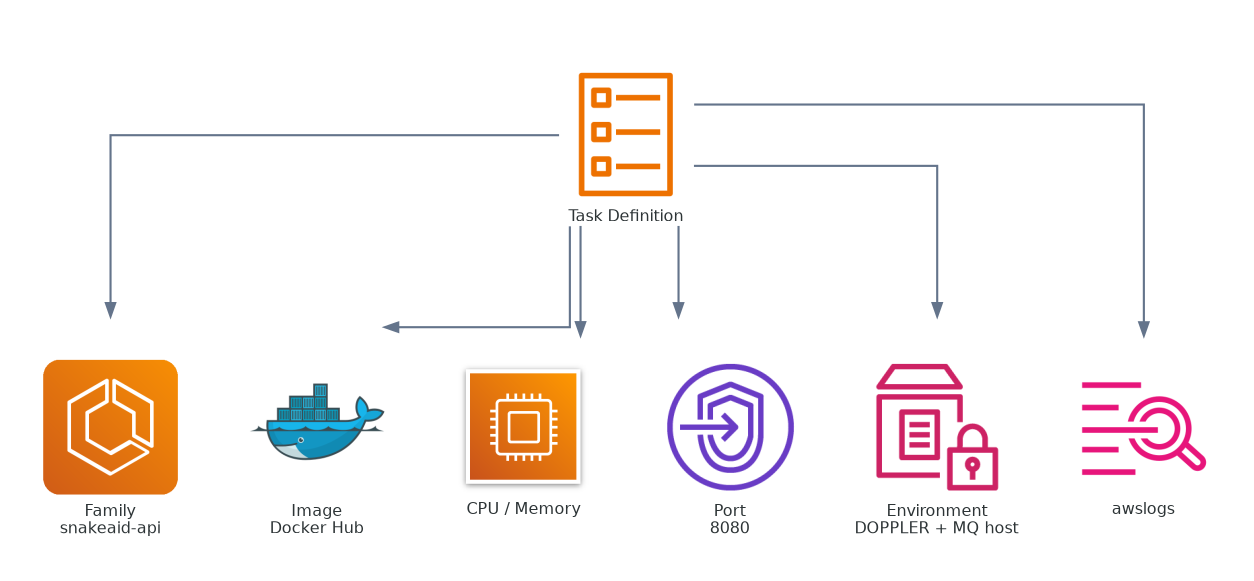
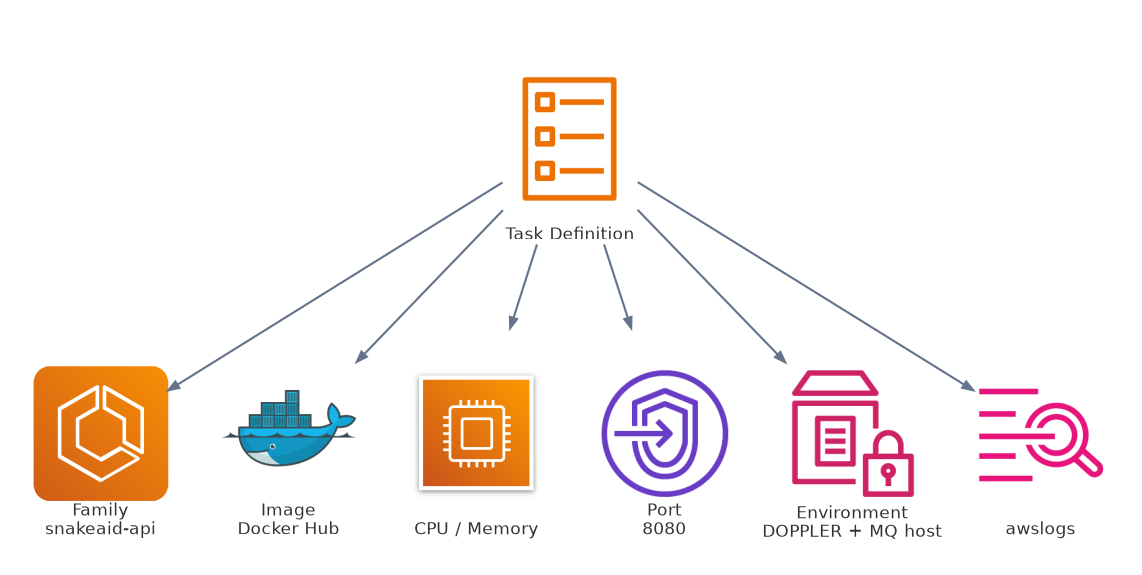
feat(docs): add diagrams for task definition anatomy, minimum fields, and docker-compose mental model

diff --git a/content/03-ecs-fargate-clickops/02-create-task-definition/_tools/generate_diagrams.py b/content/03-ecs-fargate-clickops/02-create-task-definition/_tools/generate_diagrams.py
@@ -3,12 +3,14 @@ from __future__ import annotations
 import sys
 from pathlib import Path
 
+import diagrams
 from diagrams import Cluster, Edge
 from diagrams.aws.compute import Compute, ECS, ElasticContainerServiceService, ElasticContainerServiceTask, Fargate
 from diagrams.aws.management import CloudwatchLogs
 from diagrams.aws.network import Endpoint
 from diagrams.aws.security import IAMRole
 from diagrams.aws.management import ParameterStore
+from graphviz import Digraph
 from diagrams.onprem.container import Docker
 
 
@@ -21,18 +23,59 @@ from tools.diagram_utils import cluster_style, render_bundle_diagram
 BUNDLE_DIR = Path(__file__).resolve().parents[1]
 
 
-def generate_task_definition_anatomy_diagram() -> None:
-    def builder() -> None:
-        taskdef = ElasticContainerServiceTask("Task Definition")
-        family = ECS("Family\nsnakeaid-api")
-        image = Docker("Image\nDocker Hub")
-        sizing = Compute("CPU / Memory")
-        port = Endpoint("Port\n8080")
-        env = ParameterStore("Environment\nDOPPLER + MQ host")
-        logs = CloudwatchLogs("awslogs")
-        taskdef >> [family, image, sizing, port, env, logs]
+def _diagrams_root() -> Path:
+    return Path(diagrams.__file__).resolve().parent.parent
 
-    render_bundle_diagram(BUNDLE_DIR, "task-definition-anatomy.png", builder, direction="TB")
+
+def _icon_path(node_cls: type) -> str:
+    return str(_diagrams_root() / node_cls._icon_dir / node_cls._icon)
+
+
+def generate_task_definition_anatomy_diagram() -> None:
+    output = BUNDLE_DIR / "_diagrams" / "task-definition-anatomy"
+    dot = Digraph(format="png")
+    dot.attr(rankdir="TB", bgcolor="white", pad="0.35", nodesep="0.55", ranksep="0.85", splines="line")
+    dot.attr(
+        "node",
+        shape="box",
+        style="rounded",
+        fixedsize="true",
+        imagescale="true",
+        labelloc="b",
+        fontname="Sans-Serif",
+        fontsize="13",
+        fontcolor="#2D3436",
+        width="1.4",
+        height="1.4",
+    )
+    dot.attr("edge", color="#64748B", penwidth="1.6", arrowsize="0.8")
+
+    dot.node("taskdef", "\nTask Definition", image=_icon_path(ElasticContainerServiceTask), shape="none", height="2.2")
+    dot.node("family", "\nFamily\nsnakeaid-api", image=_icon_path(ECS), shape="none", height="2.2")
+    dot.node("image", "\nImage\nDocker Hub", image=_icon_path(Docker), shape="none", height="2.2")
+    dot.node("size", "\nCPU / Memory", image=_icon_path(Compute), shape="none", height="2.2")
+    dot.node("port", "\nPort\n8080", image=_icon_path(Endpoint), shape="none", height="2.2")
+    dot.node("env", "\nEnvironment\nDOPPLER + MQ host", image=_icon_path(ParameterStore), shape="none", height="2.25")
+    dot.node("logs", "\nawslogs", image=_icon_path(CloudwatchLogs), shape="none", height="2.2")
+
+    with dot.subgraph() as s:
+        s.attr(rank="same")
+        s.node("family")
+        s.node("image")
+        s.node("size")
+        s.node("port")
+        s.node("env")
+        s.node("logs")
+
+    dot.edge("taskdef", "family")
+    dot.edge("taskdef", "image")
+    dot.edge("taskdef", "size")
+    dot.edge("taskdef", "port")
+    dot.edge("taskdef", "env")
+    dot.edge("taskdef", "logs")
+
+    output.parent.mkdir(parents=True, exist_ok=True)
+    dot.render(str(output), cleanup=True)
 
 
 def generate_task_runtime_mapping_diagram() -> None:
@@ -75,11 +118,66 @@ def generate_iam_roles_diagram() -> None:
     render_bundle_diagram(BUNDLE_DIR, "iam-roles.png", builder)
 
 
+def generate_compose_to_task_definition_diagram() -> None:
+    def builder() -> None:
+        compose = Docker("docker-compose\nsingle service")
+        taskdef = ElasticContainerServiceTask("ECS Task Definition")
+        service = ElasticContainerServiceService("Later used by\nECS Service")
+        compose >> Edge(label="mental model") >> taskdef >> Edge(label="becomes input for") >> service
+
+    render_bundle_diagram(BUNDLE_DIR, "compose-to-task-definition.png", builder)
+
+
+def generate_minimum_fields_diagram() -> None:
+    output = BUNDLE_DIR / "_diagrams" / "minimum-fields-to-create-task"
+    dot = Digraph(format="png")
+    dot.attr(rankdir="LR", bgcolor="white", pad="0.35", nodesep="0.45", ranksep="0.65", splines="ortho")
+    dot.attr(
+        "node",
+        shape="box",
+        style="rounded",
+        fixedsize="true",
+        imagescale="true",
+        labelloc="b",
+        fontname="Sans-Serif",
+        fontsize="13",
+        fontcolor="#2D3436",
+        width="1.4",
+        height="1.4",
+    )
+    dot.attr("edge", color="#64748B", penwidth="1.6")
+
+    dot.node("family", "Name / Family", image=_icon_path(ECS), shape="none", height="1.9")
+    dot.node("image", "Image", image=_icon_path(Docker), shape="none", height="1.9")
+    dot.node("port", "Port", image=_icon_path(Endpoint), shape="none", height="1.9")
+    dot.node("env", "Environment", image=_icon_path(ParameterStore), shape="none", height="1.9")
+    dot.node("size", "CPU / RAM", image=_icon_path(Compute), shape="none", height="1.9")
+    dot.node(
+        "taskdef",
+        "Create Task Definition",
+        image=_icon_path(ElasticContainerServiceTask),
+        shape="none",
+        height="1.9",
+        width="1.9",
+    )
+
+    dot.edge("family", "image")
+    dot.edge("image", "port")
+    dot.edge("port", "env")
+    dot.edge("env", "size")
+    dot.edge("size", "taskdef")
+
+    output.parent.mkdir(parents=True, exist_ok=True)
+    dot.render(str(output), cleanup=True)
+
+
 def main() -> None:
     generate_task_definition_anatomy_diagram()
     generate_task_runtime_mapping_diagram()
     generate_task_profiles_diagram()
     generate_iam_roles_diagram()
+    generate_compose_to_task_definition_diagram()
+    generate_minimum_fields_diagram()
 
 
 if __name__ == "__main__":

diff --git a/content/03-ecs-fargate-clickops/02-create-task-definition/_index.vi.md b/content/03-ecs-fargate-clickops/02-create-task-definition/_index.vi.md
@@ -22,9 +22,7 @@ Trong Amazon Elastic Container Service:
 
 Hiểu tương đương:
 
-```text
-docker-compose (1 service) ≈ Task Definition
-```
+![Sơ đồ cho thấy docker-compose là mental model gần nhất với ECS task definition](_diagrams/compose-to-task-definition.png)
 
 Nó định nghĩa:
 
@@ -33,17 +31,25 @@ Nó định nghĩa:
 * env
 * CPU / RAM
 
+Cách dễ hiểu nhất là: một phần mô tả chính container, phần còn lại mô tả ECS sẽ chạy container đó như thế nào.
+
 ### Cấu trúc của Task Definition
 
 ![Sơ đồ cấu trúc của task definition](_diagrams/task-definition-anatomy.png)
+
+Blueprint này chỉ thật sự có ý nghĩa khi ECS biến nó thành task đang chạy trong service.
 
 ### Task Definition đi vào runtime như thế nào
 
 ![Sơ đồ task definition đi vào runtime](_diagrams/task-to-runtime.png)
 
+Với SnakeAid, task của API và task của AI giống nhau ở cấu trúc tổng quát nhưng khác nhau ở profile runtime.
+
 ### Profile task của API và AI
 
 ![Sơ đồ profile task của API và AI](_diagrams/task-profiles.png)
+
+IAM là mảnh ghép rất hay bị bỏ sót ở lần làm đầu tiên. Task cần role không chỉ vì logic ứng dụng, mà còn vì ECS cần quyền để kéo image, đẩy log, và vận hành task đúng cách.
 
 ### IAM role trong quá trình chạy task
 
@@ -193,6 +199,8 @@ Cho cả hai role:
 * Task role
 * Execution role
 
+Đây là lúc diagram IAM ở trên trở nên thực tế hơn: một role nói về những gì app được phép truy cập, còn role kia là thứ ECS cần để khởi chạy và vận hành task.
+
 ### 9. Các phần skip
 
 Không cần đụng ở bước này:
@@ -230,7 +238,7 @@ CPU: 1 vCPU
 Memory: 2 GB
 ```
 
-Sau khi tạo xong cả hai task (API + AI), gửi screenshot để chuyển sang bước ALB + Service.
+So với `snakeaid-api`, task AI chủ yếu đổi task sizing và container port. Luồng ECS tổng thể vẫn giữ nguyên.
 
 ---
 
@@ -241,9 +249,13 @@ Sau khi hoàn tất, danh sách task cần có đủ:
 * `snakeaid-api` (rev 1)
 * `snakeai`
 
+Trước hết, xác nhận task definition của API đã tồn tại với đúng revision và cấu hình nền mong muốn.
+
 ### Screenshot: snakeaid-api
 
 ![Task definition snakeaid-api đã tạo thành công với revision 1 và environment settings](_diagrams/task-definition-api-created.webp)
+
+Sau đó, xác nhận task definition của AI được tạo riêng, không bị trộn vào cùng task của API.
 
 ### Screenshot: snakeai
 
@@ -253,23 +265,24 @@ Sau khi hoàn tất, danh sách task cần có đủ:
 
 ## Insight quan trọng
 
-```text
-docker-compose -> ECS task definition
-```
+Nếu bạn đã quen với Docker Compose, cách hiểu ngắn gọn nhất là: task definition chính là phiên bản ECS-native của blueprint cho một service đơn.
+
+![Sơ đồ ánh xạ mental model từ docker-compose sang ECS task definition](_diagrams/compose-to-task-definition.png)
 
 ---
 
 ## TL;DR
 
-```text
-Điền: Name + Image + Port + Env + CPU/RAM
--> Create
-```
+Ở mức tối thiểu, bạn thực chất chỉ cần điền năm thứ: tên, image, port, env, và sizing.
+
+![Sơ đồ các input tối thiểu để tạo ECS task definition](_diagrams/minimum-fields-to-create-task.png)
 
 ---
 
 ## Bước tiếp theo
 
 Khi đã có đủ 2 task, chuyển sang bước **ALB + Service**.
+
+Lúc này task definition không còn chỉ là blueprint nữa, mà đã sẵn sàng để trở thành compute unit gắn vào load balancer và ECS service.
 
 ![Màn Cluster services với hành động Create service](_diagrams/task-definition-next-step-services.webp)

diff --git a/content/03-ecs-fargate-clickops/02-create-task-definition/_index.md b/content/03-ecs-fargate-clickops/02-create-task-definition/_index.md
@@ -22,9 +22,7 @@ In Amazon Elastic Container Service:
 
 Equivalent mental model:
 
-```text
-docker-compose (single service) ≈ Task Definition
-```
+![Diagram showing docker-compose as the closest mental model to an ECS task definition](_diagrams/compose-to-task-definition.png)
 
 It defines:
 
@@ -33,17 +31,25 @@ It defines:
 * env
 * CPU / RAM
 
+The easiest way to read a task definition is: one part describes the container itself, and another part describes how ECS should run it.
+
 ### Task Definition Anatomy
 
 ![Task definition anatomy diagram](_diagrams/task-definition-anatomy.png)
+
+That blueprint only becomes useful when ECS turns it into running tasks inside a service.
 
 ### Task Definition to Runtime Mapping
 
 ![Task definition to runtime mapping diagram](_diagrams/task-to-runtime.png)
 
+For SnakeAid, the API task and the AI task are similar in structure but different in runtime profile.
+
 ### API vs AI Task Profiles
 
 ![SnakeAid task profiles diagram](_diagrams/task-profiles.png)
+
+IAM is the final piece many people miss on the first try. The task needs roles not because of application logic, but because ECS itself needs permission to pull images, send logs, and run correctly.
 
 ### IAM Roles in Task Execution
 
@@ -193,6 +199,8 @@ For both roles:
 * Task role
 * Execution role
 
+This is where the IAM role diagram above becomes practical: one role is about what the app can access, and the other is about what ECS needs in order to launch and operate the task.
+
 ### 9. Fields to skip
 
 No need to touch these at this step:
@@ -230,7 +238,7 @@ CPU: 1 vCPU
 Memory: 2 GB
 ```
 
-After both tasks are created (API + AI), share screenshots and continue to ALB + Service.
+Compared with `snakeaid-api`, the AI task mainly changes sizing and container port. The overall ECS flow stays the same.
 
 ---
 
@@ -241,9 +249,13 @@ After completion, the task list should include:
 * `snakeaid-api` (rev 1)
 * `snakeai`
 
+First confirm that the API task definition exists with the expected revision and base configuration.
+
 ### Screenshot: snakeaid-api
 
 ![Created snakeaid-api task definition showing revision 1 and environment settings](_diagrams/task-definition-api-created.webp)
+
+Then confirm that the AI task definition was created separately rather than being merged into the API task.
 
 ### Screenshot: snakeai
 
@@ -253,23 +265,24 @@ After completion, the task list should include:
 
 ## Key Insight
 
-```text
-docker-compose -> ECS task definition
-```
+If you have worked with Docker Compose before, the cleanest shortcut is to think of a task definition as the ECS-native version of a single service blueprint.
+
+![Diagram mapping docker-compose mental model to an ECS task definition](_diagrams/compose-to-task-definition.png)
 
 ---
 
 ## TL;DR
 
-```text
-Fill: Name + Image + Port + Env + CPU/RAM
--> Create
-```
+At minimum, you are really filling five things: name, image, port, env, and sizing.
+
+![Diagram showing the minimum inputs required to create an ECS task definition](_diagrams/minimum-fields-to-create-task.png)
 
 ---
 
 ## Next Step
 
 When both tasks are ready, continue with **ALB + Service**.
+
+At that point, the task definitions stop being just blueprints and become attachable compute units behind the load balancer and ECS services.
 
 ![Cluster services screen with the Create service action](_diagrams/task-definition-next-step-services.webp)
